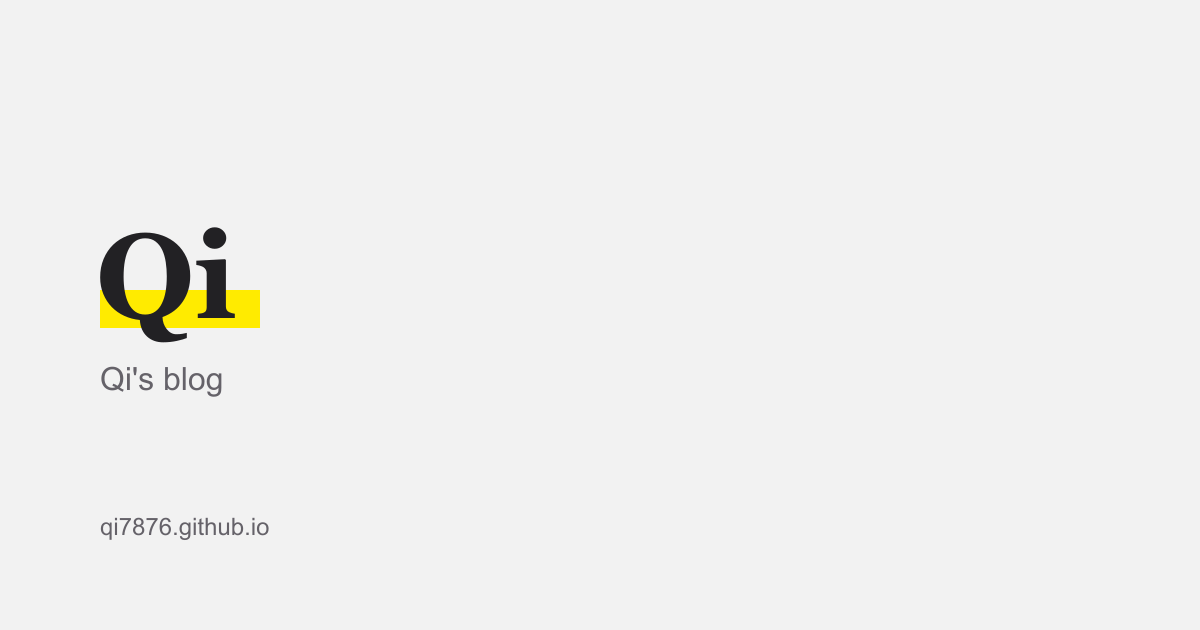
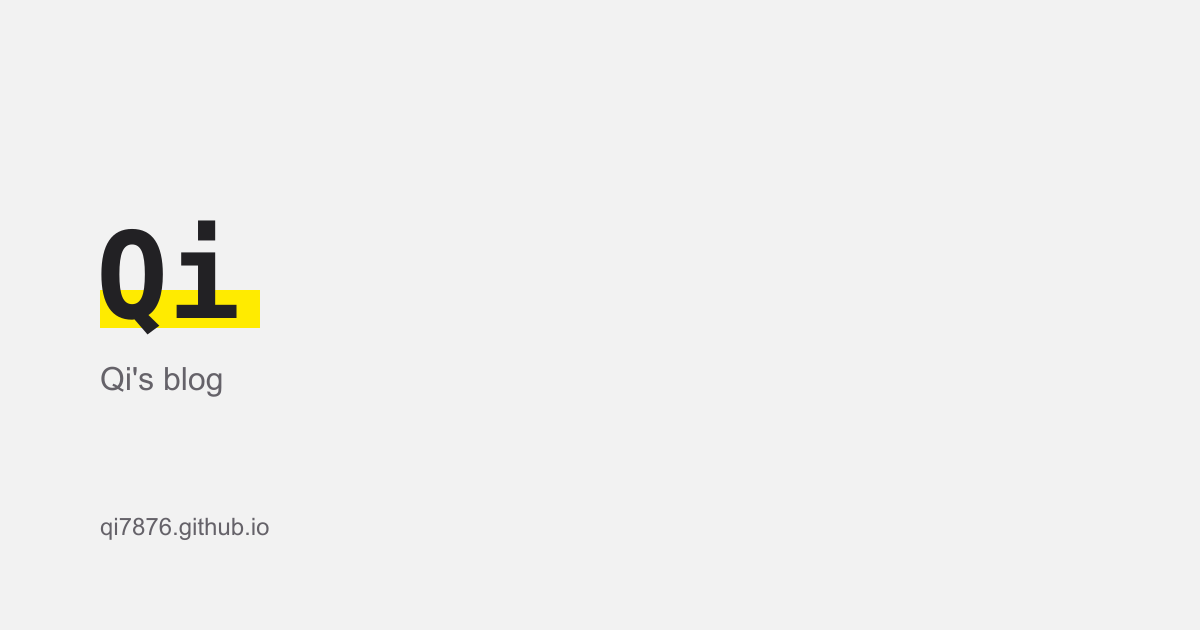
toc: add monospace heading tree and reading progress

Changed region(s): [[0.0925, 0.3317, 0.2158, 0.5429]]

diff --git a/tests/toc.test.ts b/tests/toc.test.ts
@@ -47,6 +47,27 @@ it('articles expose matching desktop and mobile ToCs outside the article', async
       const list = page.querySelector(selector)
       assert.ok(list)
       assert.deepEqual(list.querySelectorAll('a').map(link => link.getAttribute('href')), expected)
+      for (const [index, link] of list.querySelectorAll('a').entries()) {
+        const branch = link.querySelector('.toc-branch')
+        assert.equal(branch?.textContent, '└')
+        assert.equal(branch?.getAttribute('aria-hidden'), 'true')
+        const depth = Number(headings[index].tagName.slice(1)) - 2
+        assert.equal(link.parentNode?.getAttribute('style'), `--toc-depth: ${depth}`)
+      }
+    }
+    for (const selector of ['#toc-desktop', '#toc-panel']) {
+      const toc = page.querySelector(selector)
+      assert.ok(toc)
+      assert.ok(toc.classList.contains('font-mono'))
+      assert.equal(toc.querySelector('h2')?.textContent, 'TREE')
+      const progress = toc.querySelector('[role="progressbar"]')
+      assert.ok(progress)
+      assert.equal(progress.getAttribute('aria-label'), 'Reading progress')
+      assert.equal(progress.getAttribute('aria-valuemin'), '0')
+      assert.equal(progress.getAttribute('aria-valuemax'), '100')
+      assert.equal(progress.getAttribute('aria-valuenow'), '0')
+      assert.equal(progress.querySelector('.toc-progress-percent')?.textContent, '00%')
+      assert.ok(toc.innerHTML.indexOf('role="progressbar"') > toc.innerHTML.indexOf('</ul>'))
     }
     const trigger = page.querySelector('#toc-button')
     const panel = page.querySelector('#toc-panel')

diff --git a/uno.config.ts b/uno.config.ts
@@ -25,17 +25,15 @@ const systemSans = [
   'Segoe UI Emoji',
   'Segoe UI Symbol',
 ]
-const systemSerif = [
-  'Georgia',
-  'Cambria',
-  'Times New Roman',
-  'Times',
-  'Songti SC',
-  'STSong',
-  'SimSun',
-  'PMingLiU',
-  'ui-serif',
-  'serif',
+const systemMono = [
+  'ui-monospace',
+  'SFMono-Regular',
+  'Menlo',
+  'Monaco',
+  'Consolas',
+  'Liberation Mono',
+  'Courier New',
+  'monospace',
 ]
 
 export default defineConfig({
@@ -58,10 +56,10 @@ export default defineConfig({
     },
     fontFamily: {
       sans: systemSans,
-      serif: systemSerif,
-      title: systemSerif,
-      navbar: systemSerif,
-      time: systemSerif,
+      mono: systemMono,
+      title: systemMono,
+      navbar: systemMono,
+      time: systemMono,
     },
   },
   rules: [

diff --git a/src/config.ts b/src/config.ts
@@ -53,7 +53,7 @@ export const themeConfig: ThemeConfig = {
   // GLOBAL SETTINGS >>>>>>>>>>>>>>>>>>>>>>>>>>>>>>>>>>>>>>>>>>>>>>>>>>>>>>>>>>>>>>>>>>>>>>>>>>>>>>>>>>>>>>>>>>>>>>>>>>>>>>>>>>>>>>>>>>>>>>>>>>>>>>>>>>>>>>>>>>>>>>>>>>>>>>>>>>>>>>>>>>>>>>>> START
   global: {
     // post font style
-    fontStyle: 'sans', // sans | serif
+    fontStyle: 'sans', // sans | mono
     // post date format
     dateFormat: 'YYYY-MM-DD', // YYYY-MM-DD | MM-DD-YYYY | DD-MM-YYYY | MMM D YYYY | D MMM YYYY
     // enable katex math rendering

diff --git a/src/styles/markdown.css b/src/styles/markdown.css
@@ -240,7 +240,7 @@ html.dark .heti :where(u) {
   --at-apply: 'bg-highlight';
 }
 .heti .data-footnote-backref {
-  --at-apply: 'font-serif no-underline';
+  --at-apply: 'font-mono no-underline';
 }
 
 /* Horizontal Rules */
@@ -248,7 +248,7 @@ html.dark .heti :where(u) {
   --at-apply: 'mb-10.5 mt-14.5 h-auto border-none text-center';
 }
 .heti :where(hr)::before {
-  --at-apply: 'whitespace-pre text-6 c-secondary/25 font-serif';
+  --at-apply: 'whitespace-pre text-6 c-secondary/25 font-mono';
   content: "*   *   *";
 }
 

diff --git a/src/types/index.d.ts b/src/types/index.d.ts
@@ -31,7 +31,7 @@ export interface ThemeConfig {
     }
   }
   global: {
-    fontStyle: 'sans' | 'serif'
+    fontStyle: 'sans' | 'mono'
     dateFormat: 'YYYY-MM-DD' | 'MM-DD-YYYY' | 'DD-MM-YYYY' | 'MMM D YYYY' | 'D MMM YYYY'
     katex: boolean
   }

diff --git a/README.md b/README.md
@@ -10,7 +10,9 @@ Install dependencies with `pnpm install`, run the site with `pnpm dev`, and chec
 
 `pnpm build` generates the site in `dist/`. `pnpm test` runs that full build before testing the generated pages, so deployment does not require a prior local build.
 
-Article tables of contents are always enabled for level 2–4 headings. On desktop, the heading list appears beneath Qi in the right sidebar. On mobile, the bottom-right ToC button opens a floating panel above it and switches to a close icon. The article remains scrollable; the panel closes on the same button, an outside click, Escape, or heading selection. Articles without eligible headings have no ToC.
+Article tables of contents are always enabled for level 2–4 headings. They use a monospace `TREE` layout with `└` markers and two-character indentation per heading level. A block-character reading progress bar and percentage sit below the list, measuring from the article body to the point where its end is visible. On desktop, the heading list appears beneath Qi in the right sidebar. On mobile, the bottom-right ToC button opens a floating panel above it and switches to a close icon. The article remains scrollable; the panel closes on the same button, an outside click, Escape, or heading selection. Articles without eligible headings have no ToC.
+
+Branding, navigation, dates, and ToCs use the system monospace stack. Article text uses the system sans-serif stack by default; set `global.fontStyle` to `mono` in `src/config.ts` to use monospace for body text too.
 
 Content uses Markdown (`.md`). Theme changes are immediate, with simple color transitions; page navigation has no decorative animations.
 
